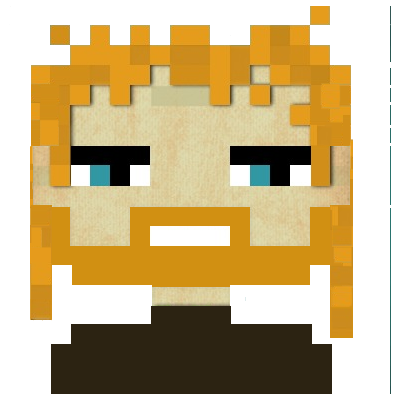
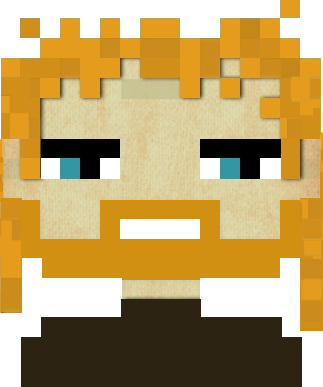
added courses to the about me page

diff --git a/src/Containers/AboutMe/AboutMe.js b/src/Containers/AboutMe/AboutMe.js
@@ -40,8 +40,102 @@ const aboutMe = (props) => {
             </Drawers>
 
             <Drawers
-                description={'My Courses'}
+                description={'Courses'}
             >
+                <Drawers
+                    description={'C#'}
+                    subDrawer={true}
+                >
+                    <ul>
+                        <li><a
+                            href='https://app.pluralsight.com/library/courses/c-sharp-fundamentals-with-visual-studio-2015/table-of-contents'>
+                            C# Fundamentals with Visual Studio 2015
+                        </a></li>
+                        <li><a
+                            href='https://app.pluralsight.com/library/courses/csharp-best-practices-improving-basics'>
+                            C# Best Practices: Improving on the Basics
+                        </a></li>
+                        <li><a
+                            href='https://app.pluralsight.com/library/courses/unity-2017-c-sharp-scripting-fundamentals'>
+                            Unity C# Scripting Fundamentals
+                        </a></li>
+                    </ul>
+                </Drawers>
+                <Drawers
+                    description={'Java'}
+                    subDrawer={true}
+                >
+                    <ul>
+                        <li><a
+                            href='https://app.pluralsight.com/library/courses/android-application-basics-understanding'>
+                            Understanding Android Application Basics
+
+                        </a></li>
+                    </ul>
+
+                </Drawers>
+                <Drawers
+                    description={'Basic Web'}
+                    subDrawer={true}
+                >
+                    <ul>
+                        <li><a
+                            href='https://app.pluralsight.com/library/courses/html-css-javascript-big-picture'>
+                            HTML, CSS, and JavaScript: The Big Picture
+
+                        </a></li>
+                    </ul>
+
+                </Drawers>
+                <Drawers
+                    description={'JavaScript'}
+                    subDrawer={true}
+                >
+                    <ul>
+                        <li><a
+                            href='https://app.pluralsight.com/library/courses/javascript-getting-started'>
+                            JavaScript: Getting Started
+
+                        </a></li>
+                        <li><a
+                            href='https://app.pluralsight.com/library/courses/javascript-fundamentals'>
+                            JavaScript Fundamentals
+
+                        </a></li>
+                        <li><a
+                            href='https://app.pluralsight.com/library/courses/javascript-objects-prototypes'>
+                            JavaScript Objects and Prototypes
+
+                        </a></li>
+                    </ul>
+
+                </Drawers>
+                <Drawers
+                    description={'PHP'}
+                    subDrawer={true}
+                >
+                    <ul>
+                        <li><a
+                            href='https://www.udemy.com/object-oriented-php-mvc/learn/v4/t/lecture/8287310'>
+                            Object Oriented PHP & MVC
+
+                        </a></li>
+                    </ul>
+
+                </Drawers>
+                <Drawers
+                    description={'Ongoing courses'}
+                    subDrawer={true}
+                >
+                    <ul>
+                        <li><a
+                            href='https://www.udemy.com/react-the-complete-guide-incl-redux/learn/v4/t/lecture/8268570'>
+                            React - The Complete Guide
+
+                        </a></li>
+                    </ul>
+
+                </Drawers>
 
             </Drawers>
 

diff --git a/src/Components/Drawers/Drawers.js b/src/Components/Drawers/Drawers.js
@@ -17,15 +17,13 @@ class Drawers extends Component {
 
     render() {
 
-        // const expandedDrawer =
-        //     <Drawer
-        //         text={this.props.children}
-        //     />;
+        let classList = [style.Drawers, this.props.subDrawer ? style.subDrawer : null]
 
         return (
-            <div className={style.Drawers}>
+            <div className={classList.join(' ')}>
 
                 <Handle
+                    subDrawer={this.props.subDrawer}
                     text={this.props.description}
                     clicked={this.expandHandler}
                     open={this.state.expanded}

diff --git a/src/Components/Navigation/MobileNav/MenuBtn/MenuBtn.module.css b/src/Components/Navigation/MobileNav/MenuBtn/MenuBtn.module.css
@@ -1,6 +1,4 @@
-
-  
-@keyframes menuOpen1 {
+ @keyframes menuOpen1 {
     to{transform: translate(0px, 13px) rotate(50deg) scale(1, 1)}    
 }
 @keyframes menuOpen2 {
@@ -52,7 +50,7 @@
 
 .MenuBtn .Line2 {
     animation-name: menuOpen2;
-    animation-duration: 0.4s;
+    animation-duration: 0.8s;
     animation-fill-mode: forwards
 }
 
@@ -69,9 +67,8 @@
 }
 
 .MenuBtn .Line2Closed {
-    opacity: 1;
     animation-name: menuClosed2;
-    animation-duration: 0.4s;
+    animation-duration: 0.8s;
     animation-fill-mode: forwards
 }
 

diff --git a/src/Components/Drawers/Handle/Handle.js b/src/Components/Drawers/Handle/Handle.js
@@ -4,10 +4,12 @@ import style from './Handle.module.css';
 
 const handle = (props) => {
 
+    let classList = [style.Handle, props.subDrawer ? style.subDrawer : null];
+
     return (
         <div
             onClick={props.clicked}
-            className={style.Handle}
+            className={classList.join(' ')}
         >
 
             <p>{props.text}</p>

diff --git a/src/Containers/AboutMe/AboutMe.module.css b/src/Containers/AboutMe/AboutMe.module.css
@@ -28,3 +28,21 @@
     background-color: rgba(0,0,0,0.3);
     padding: 2px;
 }
+
+.AboutMe ul {
+    list-style: none;
+    text-align: start;
+    margin: 0 0 0 5%;
+    padding: 5px;
+    font-size: 1rem;
+    font-weight: bold;
+}
+
+.AboutMe li {
+    margin: 5px 0;
+}
+
+.AboutMe a {
+    color: #728687;
+    text-decoration: none;
+}

diff --git a/src/Components/ProfileImage/ProfileImage.js b/src/Components/ProfileImage/ProfileImage.js
@@ -1,6 +1,6 @@
 import React from 'react';
 
-import profileImg from '../../assets/images/me.png'
+import profileImg from '../../assets/images/8bitAvatar.png'
 import style from './ProfileImage.module.css'
 
 const profileImage = (props) => {

diff --git a/src/Components/Drawers/Handle/Handle.module.css b/src/Components/Drawers/Handle/Handle.module.css
@@ -22,3 +22,12 @@
     text-align: end;
     right: 10px;
 }
+
+.subDrawer {
+    background-color: #253839; 
+    height: 15px;   
+}
+
+.subDrawer p {
+    font-size: 1rem;
+}

diff --git a/src/Components/Drawers/Drawers.module.css b/src/Components/Drawers/Drawers.module.css
@@ -6,6 +6,10 @@
     margin-top: 5px;
 }
 
+.Drawers .subDrawer {
+    font-size: 10px;
+}
+
 .Drawers p {
     text-shadow: 1px 1px 0 black, 2px 2px 0 black;
 }
